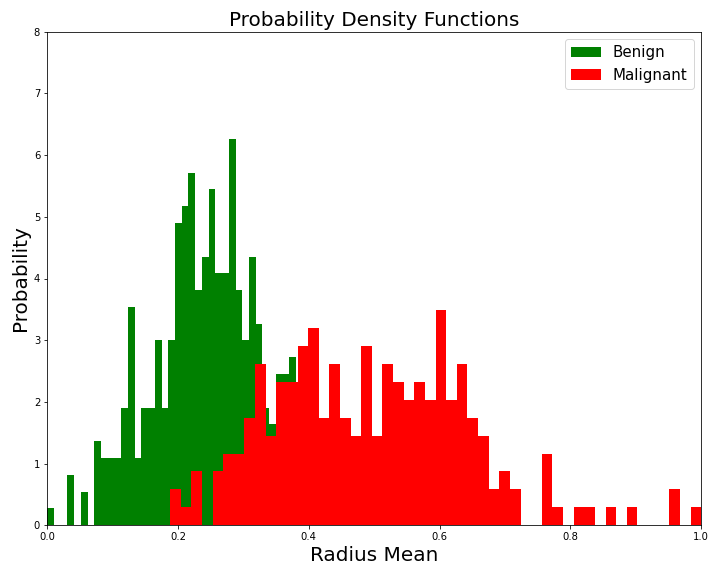
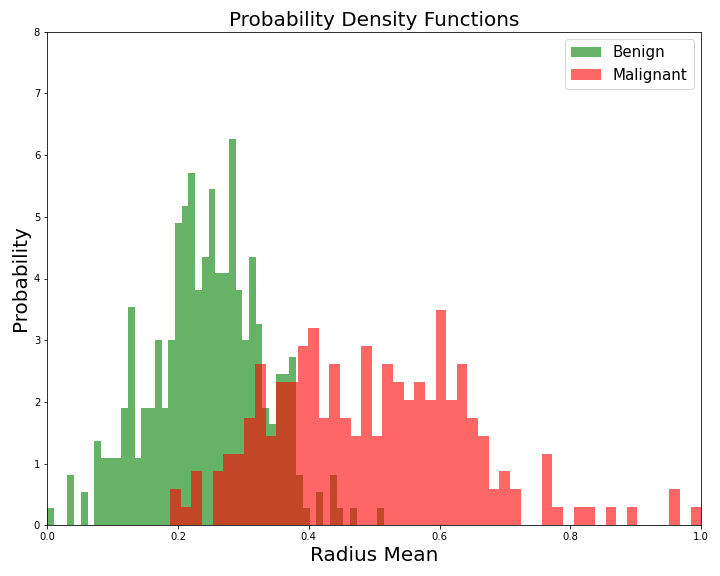
add text

Changed region(s): [[0.0611, 0.25, 0.8861, 0.9375], [0.7944, 0.0625, 0.8556, 0.1562], [0.9167, 0.8438, 0.9778, 0.9062]]

diff --git a/episode-02.md b/episode-02.md
@@ -176,6 +176,8 @@ plt.show()
 ~~~
 : .language-python}
 
+overlapping region!
+
 <p align="center">
   <img width="720" height="576" src="images/hist_radius_mean_02.png">
 </p>
